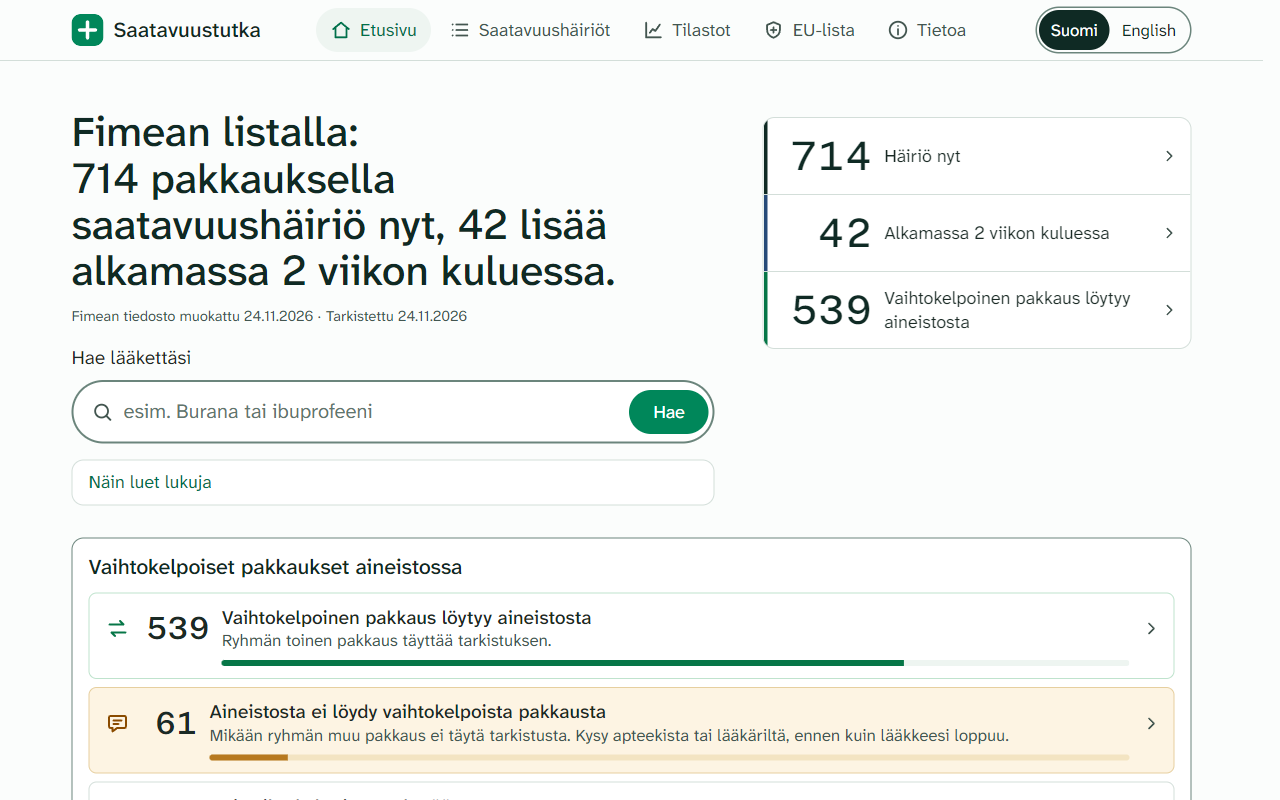
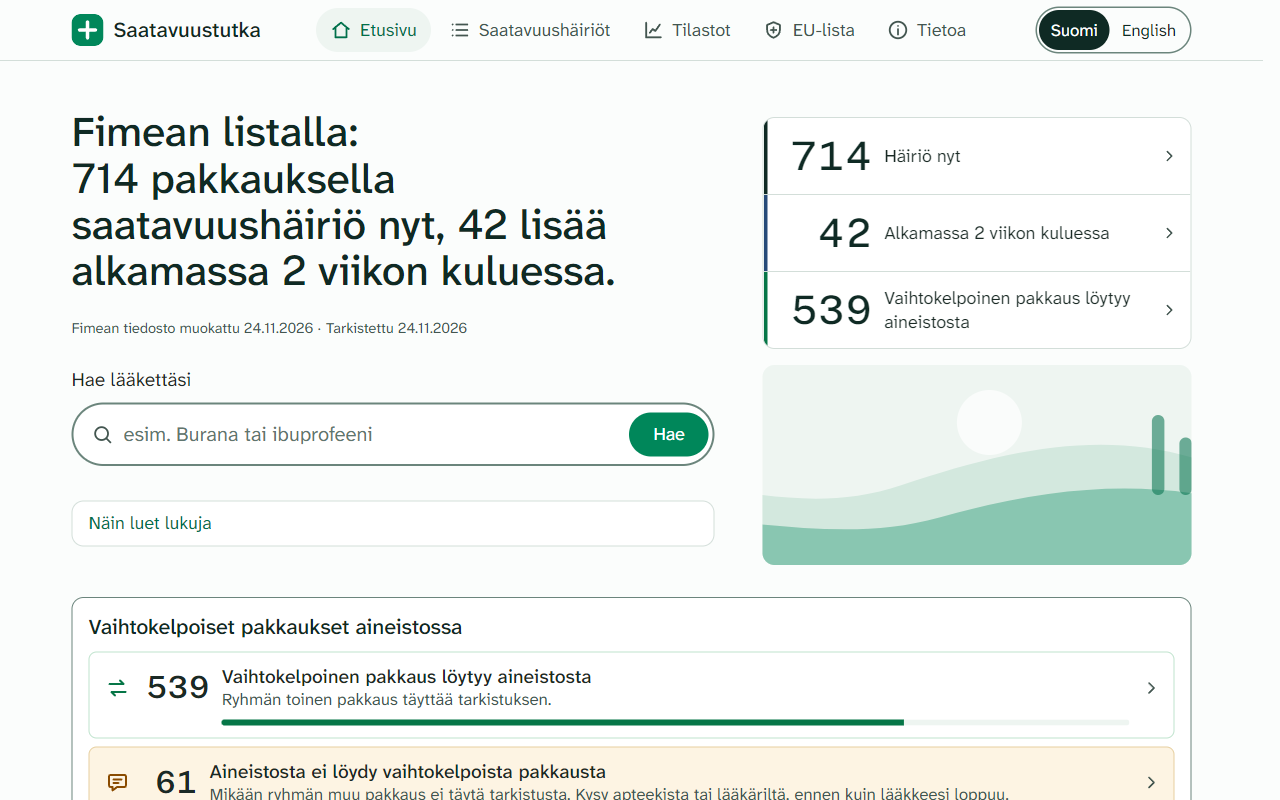
Home: status links use the data date and the 14-day rule; bring the hills picture back
The three strip links now carry the data date (asof) and, for the 2-week tile,
within=14, so each list shows exactly the packages its tile counts, whatever
the browser date. The 2-week count takes day 14 in and day 15 out; later
notices are counted in neither tile (expected_later). The general Starting
soon filter stays. The hills picture returns below the search, decorative,
aria-hidden. The bottom tab bar is unchanged.

Changed region(s): [[0.0625, 0.375, 0.9375, 1.0]]

diff --git a/site/lib.js b/site/lib.js
@@ -211,6 +211,8 @@ function uiIcon(name, size = 20) { return `<svg class="uicon" viewBox="0 0 24 24
 
 // ---- Status, sorting and filters
 const DAY = 86400000;
+// 'Starting within 2 weeks': the start is after the data date and at most 14 days after it. scripts/slices.py SOON_DAYS is the same.
+const SOON_DAYS = 14;
 function statusOf(e, now = todayUTC()) {
   const start = parsedDate(e.UnavailableFrom);
   return !start ? 'unknown' : start.valueOf() > now ? 'soon' : 'now';
@@ -279,15 +281,22 @@ const FILTER_KEYS = ['impact', 'status', 'group', 'form', 'company'];
 function parseFilters(search) {
   const params = new URLSearchParams(search), pick = (key, max = 100) => (params.get(key) || '').trim().slice(0, max);
   const status = pick('status'), sort = pick('sort'), form = pick('form'), impact = impactName(pick('impact'));
-  return {q: pick('q'), impact: IMPACT_LEVELS.includes(impact) ? impact : '', status: ['now', 'soon'].includes(status) ? status : '', group: pick('group', 10), form: KINDS.includes(form) ? form : '', company: pick('company', 120), sort: ['name', 'longest', 'end'].includes(sort) ? sort : ''};
+  const out = {q: pick('q'), impact: IMPACT_LEVELS.includes(impact) ? impact : '', status: ['now', 'soon'].includes(status) ? status : '', group: pick('group', 10), form: KINDS.includes(form) ? form : '', company: pick('company', 120), sort: ['name', 'longest', 'end'].includes(sort) ? sort : ''};
+  // From the home page tiles: count as of the data date (asof) and, for the 2-week tile, only starts up to `within` days after it.
+  const asof = pick('asof'), within = Number(pick('within', 3));
+  if (parsedDate(asof)) out.asof = asof;
+  if (parsedDate(asof) && out.status === 'soon' && Number.isInteger(within) && within >= 1 && within <= 60) out.within = String(within);
+  return out;
 }
+// The date a list is read at: the data date from a home tile link when there is one, else today (Helsinki).
+function listNow(f) { return f.asof && parsedDate(f.asof) ? parsedDate(f.asof).valueOf() : todayUTC(); }
 function filtersToQuery(f) {
   const params = new URLSearchParams();
-  for (const key of ['q', ...FILTER_KEYS, 'sort']) if (f[key]) params.set(key, f[key]);
+  for (const key of ['q', ...FILTER_KEYS, 'asof', 'within', 'sort']) if (f[key]) params.set(key, f[key]);
   return params.toString();
 }
 function filterPackages(rows, f, now = todayUTC()) {
-  return rows.filter(e => (!f.q || searchMatches(e, f.q)) && (!f.impact || impactOf(e) === f.impact) && (!f.status || statusOf(e, now) === f.status || (f.status === 'now' && statusOf(e, now) === 'unknown')) && (!f.group || groupKey(e.atc) === f.group) && (!f.form || formKind(e.form) === f.form) && (!f.company || e.Company === f.company));
+  return rows.filter(e => (!f.q || searchMatches(e, f.q)) && (!f.impact || impactOf(e) === f.impact) && (!f.status || statusOf(e, now) === f.status || (f.status === 'now' && statusOf(e, now) === 'unknown')) && (!f.within || f.status !== 'soon' || !parsedDate(e.UnavailableFrom) || parsedDate(e.UnavailableFrom).valueOf() <= now + Number(f.within) * DAY) && (!f.group || groupKey(e.atc) === f.group) && (!f.form || formKind(e.form) === f.form) && (!f.company || e.Company === f.company));
 }
 const relevant = rows => rows.filter(e => !e.removed_on);
 

diff --git a/site/shortages.js b/site/shortages.js
@@ -42,7 +42,7 @@ function loadPast() {
 function draw() {
   // Nothing is answered before current.json is here: a miss now could be a package that is still loading.
   if (!loaded) return;
-  const t = copy[language], now = todayUTC(), grouped = filters.impact === 'no_alternative';
+  const t = copy[language], now = listNow(filters), grouped = filters.impact === 'no_alternative';
   const found = sortPackages(filterPackages(rows, filters, now), filters.sort, now);
   const fallback = !found.length && Boolean(filters.q) && !activeFilters();
   if (fallback) loadPast();
@@ -80,7 +80,8 @@ function render() {
 function changed(resetPage = true) { if (past.state === 'error') past = {state: 'idle', rows: []}; readControls(); if (resetPage) visible = PAGE_SIZE; draw(); clearTimeout(urlTimer); urlTimer = setTimeout(syncUrl, 300); }
 $('finder').addEventListener('submit', e => e.preventDefault());
 $('search').addEventListener('input', () => changed());
-$('finder').addEventListener('change', e => { if (e.target.id !== 'search') changed(); });
+// A hand-picked status leaves the home tile's two-week window; the general 'Starting soon' filter stays available.
+$('finder').addEventListener('change', e => { if (e.target.id !== 'search') { if (e.target.name === 'status') delete filters.within; changed(); } });
 function clearFilters() { filters = {q: filters.q, impact: '', status: '', group: '', form: '', company: '', sort: ''}; render(); syncUrl(); }
 $('clear').addEventListener('click', clearFilters);
 $('list').addEventListener('click', e => { if (e.target.id === 'clear-inline') clearFilters(); });

diff --git a/site/style.css b/site/style.css
@@ -87,6 +87,7 @@ select{font:inherit;min-height:44px;width:100%;border:1.5px solid var(--line-str
 .hero-grid{display:grid;gap:var(--s5);align-items:start}
 .hero-head{display:grid;grid-template-columns:minmax(0,1fr);gap:var(--s4);align-items:start}
 .hero-head>*{min-width:0}
+.hero .eu-hero-art{display:block;height:72px}
 .hero .home-notes{margin:0}
 .hero .home-notes>p{max-width:60ch;margin:var(--s2) 0 0}
 .hero h1#hero-line{font-size:clamp(1.5rem,1.2rem + 1.6vw,2.75rem);max-width:20ch;margin:0}
@@ -441,7 +442,8 @@ html:not(.js) .needs-js{display:none}
   .hero-grid{gap:var(--s6)}
   .hero-head{grid-template-columns:minmax(0,3fr) minmax(0,2fr);gap:var(--s4) var(--s7)}
   .hero-head>*{grid-column:1}
-  .hero-head>.strip{grid-column:2;grid-row:1 / span 4;margin-top:var(--s2)}
+  .hero-head>.strip{grid-column:2;grid-row:1 / span 2;margin-top:var(--s2)}
+  .hero-head>.eu-hero-art{grid-column:2;grid-row:3 / span 2;height:200px;align-self:start}
   .strip-tile{min-height:76px;padding-block:var(--s3)}
   .strip-num{font-size:2.25rem}
   .strip-label{font-size:1rem}

diff --git a/site/home.js b/site/home.js
@@ -36,6 +36,13 @@ function renderHome() {
   $('hero-label').textContent = t.heroReading;
   const counts = impactCounts();
   // The status strip: the same numbers as the headline and the triage, each linking to its list view.
+  // The links carry the data date, so each list opens exactly the packages its number counts, whatever the visitor's clock says.
+  if (data && data.snapshot_date) {
+    const asof = `&asof=${data.snapshot_date}`;
+    $('strip-now-link').href = `shortages.html?status=now${asof}`;
+    $('strip-soon-link').href = `shortages.html?status=soon&within=${SOON_DAYS}${asof}`;
+    $('strip-sub-link').href = `shortages.html?impact=substitute${asof}`;
+  }
   if (Number.isFinite(n)) $('strip-now-num').textContent = numberText(n);
   if (Number.isFinite(n)) $('strip-soon-num').textContent = numberText(soon || 0);
   $('strip-sub').hidden = !Number.isFinite(counts.substitute);

diff --git a/scripts/pages.py b/scripts/pages.py
@@ -5,6 +5,8 @@ and tests/test_pages.py checks that the two agree, so a string is only ever chan
 """
 from html import escape
 
+from critical_charts import hero_art
+
 
 SITE_URL = 'https://alejandrorenalias.github.io/shortage-radar/'
 PREVIEW = SITE_URL + 'preview.png'
@@ -139,21 +141,26 @@ def triage_list(impact):
 
 
 def strip_tile(key, href, num, label, text, hidden=False):
-    return (f'<li{" hidden" if hidden else ""} id="strip-{key}"><a class="strip-tile strip-{key}" href="{href}"><span class="strip-num" id="strip-{key}-num">{num:,}</span>'
+    return (f'<li{" hidden" if hidden else ""} id="strip-{key}"><a class="strip-tile strip-{key}" id="strip-{key}-link" href="{href}"><span class="strip-num" id="strip-{key}-num">{num:,}</span>'
             f'<span class="strip-label" data-i18n="{label}">{text}</span>'
             '<svg class="uicon strip-go" viewBox="0 0 24 24" width="18" height="18" aria-hidden="true" focusable="false"><path d="m9 6 6 6-6 6"/></svg></a></li>')
 
 
-def home(count, impact=None, soon=0):
-    """`count` packages are short now, and `soon` more are expected within two weeks."""
+def strip_href(query, as_of):
+    """A tile's list link: the same data date as the tile's count, so the list shows exactly the packages counted."""
+    return 'shortages.html?' + query + (f'&asof={as_of}' if as_of else '')
+
+
+def home(count, impact=None, soon=0, as_of=''):
+    """`count` packages are short now, and `soon` more are expected within two weeks, both counted as of the data date `as_of`."""
     line = f'Fimea’s list: {count:,} {"package" if count == 1 else "packages"} in shortage now{f", {soon:,} more expected to start within 2 weeks" if soon else ""}.'
     impact = impact or {}
     sub, vet = impact.get('substitute', 0), impact.get('vet', 0)
     answer = f'<p class="hero-answer" id="hero-answer" data-count="{sub}">For {sub:,} of them, the check found another package of the group that the register marks as on the market and not short, and that is not on the shortage list.</p>' if impact else '<p class="hero-answer" id="hero-answer"></p>'
     vet_line = f'Also on the list: {vet:,} veterinary {"medicine" if vet == 1 else "medicines"}.'
-    strip = ''.join([strip_tile('now', 'shortages.html?status=now', count, 'stripNow', 'Short now'),
-                     strip_tile('soon', 'shortages.html?status=soon', soon, 'stripSoon', 'Starting within 2 weeks'),
-                     strip_tile('sub', 'shortages.html?impact=substitute', sub, 'stripSub', 'Interchangeable package found in the data', hidden=not impact)])
+    strip = ''.join([strip_tile('now', strip_href('status=now', as_of), count, 'stripNow', 'Short now'),
+                     strip_tile('soon', strip_href('status=soon&within=14', as_of), soon, 'stripSoon', 'Starting within 2 weeks'),
+                     strip_tile('sub', strip_href('impact=substitute', as_of), sub, 'stripSub', 'Interchangeable package found in the data', hidden=not impact)])
     return f'''<section class="hero wrap"><div class="hero-grid"><div class="hero-head">
 <h1 id="hero-line" data-count="{count}" data-soon="{soon}">{line}</h1>
 <p class="hero-fresh" id="hero-fresh" hidden><span id="hero-file"></span><span id="hero-checked"></span></p>
@@ -162,6 +169,7 @@ def home(count, impact=None, soon=0):
 <label for="q" data-i18n="homeSearchLabel">Search for your medicine</label>
 <div class="searchrow">{search_icon()}<input id="q" name="q" type="search" autocomplete="off" maxlength="100" placeholder="e.g. Burana or ibuprofen" data-i18n-attr="placeholder=placeholder"><button type="submit" class="btn" data-i18n="searchButton">Search</button></div>
 </form>
+{hero_art()}
 <details class="eu-fold eu-notes home-notes"><summary data-i18n="homeNotes">How to read these numbers</summary>
 <p class="hero-label" id="hero-label" data-i18n="heroReading">Our reading of Fimea’s register, not a stock check.</p>
 {answer}
@@ -292,7 +300,7 @@ def not_found():
 <p><a class="btn" href="/shortage-radar/shortages.html" data-i18n="nfSearch">Search the shortage list</a> <a class="btn-quiet" href="/shortage-radar/index.html" data-i18n="navHome">Home</a></p></div>'''
 
 
-def render_pages(count, impact=None, critical=None, soon=0):
+def render_pages(count, impact=None, critical=None, soon=0, as_of=''):
     """Return {file name: html} for every page; `count` is the number of shortages that have started and `soon` the number
     expected within two weeks, shown in the home headline,
     and `impact` the counts by impact level ({'substitute': n, ...}) for the triage on the home page."""
@@ -300,7 +308,7 @@ def render_pages(count, impact=None, critical=None, soon=0):
     for key, meta in PAGES.items():
         if meta.get('own'):
             continue
-        body = {'index': lambda: home(count, impact, soon), 'shortages': shortages, 'trends': trends, 'about': about, 'medicine': medicine, 'medicines': medicines}[key]()
+        body = {'index': lambda: home(count, impact, soon, as_of), 'shortages': shortages, 'trends': trends, 'about': about, 'medicine': medicine, 'medicines': medicines}[key]()
         meta = dict(meta, script={'index': 'home.js'}.get(key, f'{key}.js'))
         out[meta['file']] = document(key, body, meta=meta)
     prefix = '/shortage-radar/'

diff --git a/scripts/slices.py b/scripts/slices.py
@@ -5,12 +5,14 @@ It also holds, for the substitution groups of its current packages, the other pa
 `summary.json` holds the counts and a few packages that the home, trends and about pages need.
 """
 from collections import Counter
+from datetime import date, timedelta
 
 from triage import counts, with_aliases
 
 META_KEYS = ('archive_start', 'snapshot_date', 'source_metadata', 'generated_at', 'last_checked')
 LONGEST = 8
 NEWEST = 8
+SOON_DAYS = 14  # 'starting within 2 weeks': start date after the data date and up to 14 days after it (day 14 in, day 15 out). site/lib.js SOON_DAYS is the same.
 
 
 def shard_name(vnr):
@@ -33,8 +35,11 @@ def package_shards(events, meta, groups=None):
 def summary(current, meta):
     """Counts by raw form, by ATC prefix (3 letters) and by company, the longest running and the newest current packages."""
     started = sorted((e for e in current if e['UnavailableFrom'] <= meta['snapshot_date']), key=lambda e: e['UnavailableFrom'])
-    soon = sum(e['UnavailableFrom'] > meta['snapshot_date'] for e in current)
-    return dict(meta, total=len(current), short_now=len(current) - soon, expected_soon=soon, company_count=len({e['Company'] for e in current}),
+    # Every count and every list link on the home page uses the data date (snapshot_date), never the date of the visitor's clock.
+    cutoff = (date.fromisoformat(meta['snapshot_date']) + timedelta(days=SOON_DAYS)).isoformat()
+    soon = sum(meta['snapshot_date'] < e['UnavailableFrom'] <= cutoff for e in current)
+    later = sum(e['UnavailableFrom'] > cutoff for e in current)
+    return dict(meta, total=len(current), short_now=len(current) - soon - later, expected_soon=soon, expected_later=later, company_count=len({e['Company'] for e in current}),
                 forms=dict(Counter(e.get('form', '') for e in current)),
                 atc=dict(Counter((e.get('atc') or '')[:3] for e in current)),
                 companies=dict(Counter(e['Company'] for e in current)), impact=with_aliases(counts(current)),

diff --git a/tests/test_slices.py b/tests/test_slices.py
@@ -26,9 +26,17 @@ def test_summary_counts_and_picks_the_oldest_and_newest_started_packages():
     current.append(event('999999', '2027-01-01'))
     s = summary(current, META)
     assert s['total'] == 21 and s['company_count'] == 3
-    assert (s['short_now'], s['expected_soon']) == (20, 1)
+    assert (s['short_now'], s['expected_soon'], s['expected_later']) == (20, 0, 1)
     assert s['forms'] == {'kapseli': 5, 'tabletti': 16}
     assert s['atc']['S01'] == 3 and s['atc']['N02'] == 18
     assert len(s['longest']) == LONGEST and s['longest'][0]['UnavailableFrom'] == '2026-11-01'
     assert len(s['newest']) == NEWEST and s['newest'][0]['UnavailableFrom'] == '2026-11-20'
     assert all(e['UnavailableFrom'] <= META['snapshot_date'] for e in s['newest'] + s['longest'])
+
+
+def test_two_week_count_takes_day_14_in_and_day_15_out_from_the_data_date():
+    # META is dated 2026-11-22: day 14 is 2026-12-06, day 15 is 2026-12-07.
+    current = [event('000001', '2026-11-22'), event('000002', '2026-11-23'), event('000003', '2026-12-06'), event('000004', '2026-12-07'), event('000005', '2027-01-01')]
+    s = summary(current, META)
+    assert (s['short_now'], s['expected_soon'], s['expected_later']) == (1, 2, 2)
+    assert s['short_now'] + s['expected_soon'] + s['expected_later'] == s['total']

diff --git a/scripts/build.py b/scripts/build.py
@@ -397,7 +397,7 @@ def build():
     alerts = eu_list.new_alerts(es, matches, snapshots, _shift(history[-1]['date'], eu_list.ALERT_DAYS))
     eu_list.write_outputs(ROOT / 'site', rows, eu['meta'], metadata, history[-1]['date'], alerts)
     critical_data = {'substance_fi': search_words, 'eu': eu, 'rows': rows, 'counts': eu_list.counts(rows), 'history': eu_list.history(es, matches, [d for d, _ in snapshots]), 'archive_start': history[0]['date'], 'snapshot_date': history[-1]['date'], 'source_metadata': metadata}
-    for name, html in render_pages(home['short_now'], home['impact'], critical_data, home['expected_soon']).items():
+    critical_data = {'eu': eu, 'rows': rows, 'counts': eu_list.counts(rows), 'history': eu_list.history(es, matches, [d for d, _ in snapshots]), 'archive_start': history[0]['date'], 'snapshot_date': history[-1]['date'], 'source_metadata': metadata}
         (ROOT / 'site' / name).write_text(html, encoding='utf-8', newline='\n')
     print(f"rows={len(current)} matched_names={sum(bool(e.get('name')) for e in current)} unmatched_vnrs={len(unmatched)} impact={home['impact']} newly_critical={len(critical)} eu_list={eu_list.counts(rows)} eu_alerts={len(alerts)} medicine_pages={medicine_counts}")
 
